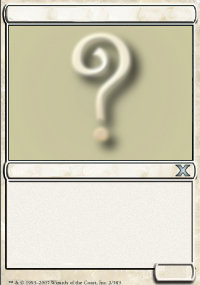
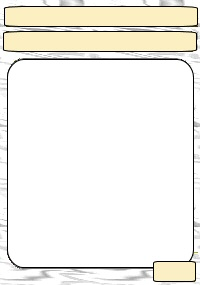
-AlternatRender calls fixes -Replaced "borderline" default cards design with something more generic

diff --git a/projects/mtg/src/CardGui.cpp b/projects/mtg/src/CardGui.cpp
@@ -104,7 +104,7 @@ void CardView::Render()
 }
 
 
-void CardGui::alternateRender(MTGCard * card, JQuad ** manaIcons, const Pos& pos){
+void CardGui::alternateRender(MTGCard * card, const Pos& pos){
   // Draw the "unknown" card model
   JRenderer * renderer = JRenderer::GetInstance();
   JQuad * q;
@@ -128,11 +128,12 @@ void CardGui::alternateRender(MTGCard * card, JQuad ** manaIcons, const Pos& pos
   font->SetScale(0.8 * pos.actZ);
 
   {
-    const char* name = _(card->getName()).c_str();
+    char name[4096];
+    sprintf(name, _(card->getName()).c_str());
     float w = font->GetStringWidth(name) * 0.8 * pos.actZ;
     if (w > BigWidth - 30)
       font->SetScale((BigWidth - 30) / w);
-    font->DrawString(name, pos.actX + 22 - BigWidth / 2, pos.actY + 22 - BigHeight / 2);
+    font->DrawString(name, pos.actX + (22 - BigWidth / 2)*pos.actZ, pos.actY + (25 - BigHeight / 2)*pos.actZ);
   }
 
   // Write the description
@@ -141,7 +142,7 @@ void CardGui::alternateRender(MTGCard * card, JQuad ** manaIcons, const Pos& pos
     const std::vector<string> txt = card->formattedText();
     unsigned i = 0;
     for (std::vector<string>::const_iterator it = txt.begin(); it != txt.end(); ++it, ++i)
-      font->DrawString(it->c_str(), pos.actX + 22 - BigWidth / 2, pos.actY + 35 + 11 * i);
+      font->DrawString(it->c_str(), pos.actX + (22 - BigWidth / 2)*pos.actZ, pos.actY + (-BigHeight/2 + 80 + 11 * i)*pos.actZ);
   }
 
   // Write the strength
@@ -150,7 +151,7 @@ void CardGui::alternateRender(MTGCard * card, JQuad ** manaIcons, const Pos& pos
       char buffer[32];
       sprintf(buffer, "%i/%i", card->power, card->toughness);
       float w = font->GetStringWidth(buffer) * 0.8;
-      font->DrawString(buffer, pos.actX + 65 - w / 2, pos.actY + 106);
+      font->DrawString(buffer, pos.actX + (65 - w / 2)*pos.actZ, pos.actY + (106)*pos.actZ);
   }
 
   // Mana
@@ -160,18 +161,20 @@ void CardGui::alternateRender(MTGCard * card, JQuad ** manaIcons, const Pos& pos
     unsigned int j = 0;
     unsigned char t = (JGE::GetInstance()->GetTime() / 3) & 0xFF;
     unsigned char v = t + 127;
+    float yOffset = -112;
     while ((h = manacost->getHybridCost(j)))
       {
 	float scale = pos.actZ * 0.05 * cosf(2*M_PI*((float)t)/256.0);
+  
 	if (scale < 0)
 	  {
-	    renderer->RenderQuad(manaIcons[h->color1], pos.actX - 12 * j + 75 + 3 * sinf(2*M_PI*((float)t)/256.0), pos.actY - 115 + 3 * cosf(2*M_PI*((float)(t-35))/256.0), 0, 0.4 + scale, 0.4 + scale);
-	    renderer->RenderQuad(manaIcons[h->color2], pos.actX - 12 * j + 75 + 3 * sinf(2*M_PI*((float)v)/256.0), pos.actY - 115 + 3 * cosf(2*M_PI*((float)(v-35))/256.0), 0, 0.4 - scale, 0.4 - scale);
+	    renderer->RenderQuad(manaIcons[h->color1], pos.actX + (-12 * j + 75 + 3 * sinf(2*M_PI*((float)t)/256.0))*pos.actZ, pos.actY + (yOffset + 3 * cosf(2*M_PI*((float)(t-35))/256.0))*pos.actZ, 0, 0.4 + scale, 0.4 + scale);
+	    renderer->RenderQuad(manaIcons[h->color2], pos.actX + (-12 * j + 75 + 3 * sinf(2*M_PI*((float)v)/256.0))*pos.actZ, pos.actY + (yOffset + 3 * cosf(2*M_PI*((float)(v-35))/256.0))*pos.actZ, 0, 0.4 - scale, 0.4 - scale);
 	  }
 	else
 	  {
-	    renderer->RenderQuad(manaIcons[h->color2], pos.actX - 12 * j + 75 + 3 * sinf(2*M_PI*((float)v)/256.0), pos.actY - 115 + 3 * cosf(2*M_PI*((float)(v-35))/256.0), 0, 0.4 - scale, 0.4 - scale);
-	    renderer->RenderQuad(manaIcons[h->color1], pos.actX - 12 * j + 75 + 3 * sinf(2*M_PI*((float)t)/256.0), pos.actY - 115 + 3 * cosf(2*M_PI*((float)(t-35))/256.0), 0, 0.4 + scale, 0.4 + scale);
+	    renderer->RenderQuad(manaIcons[h->color2], pos.actX + (- 12 * j + 75 + 3 * sinf(2*M_PI*((float)v)/256.0))*pos.actZ, pos.actY + (yOffset + 3 * cosf(2*M_PI*((float)(v-35))/256.0))*pos.actZ, 0, 0.4 - scale, 0.4 - scale);
+	    renderer->RenderQuad(manaIcons[h->color1], pos.actX + (- 12 * j + 75 + 3 * sinf(2*M_PI*((float)t)/256.0))*pos.actZ, pos.actY + (yOffset + 3 * cosf(2*M_PI*((float)(t-35))/256.0))*pos.actZ, 0, 0.4 + scale, 0.4 + scale);
 	  }
 	++j;
       }
@@ -179,7 +182,7 @@ void CardGui::alternateRender(MTGCard * card, JQuad ** manaIcons, const Pos& pos
       {
 	for (int cost = manacost->getCost(i); cost > 0; --cost)
 	  {
-	    renderer->RenderQuad(manaIcons[i], pos.actX - 12*j + 75, pos.actY - 115, 0, 0.4 * pos.actZ, 0.4 * pos.actZ);
+	    renderer->RenderQuad(manaIcons[i], pos.actX + (-12*j + 75)*pos.actZ, pos.actY + (yOffset)*pos.actZ, 0, 0.4 * pos.actZ, 0.4 * pos.actZ);
 	    ++j;
 	  }
       }
@@ -188,12 +191,13 @@ void CardGui::alternateRender(MTGCard * card, JQuad ** manaIcons, const Pos& pos
       {
 	char buffer[10];
 	sprintf(buffer, "%d", cost);
-	renderer->RenderQuad(manaIcons[0], pos.actX - 12*j + 75, pos.actY - 115, 0, 0.4 * pos.actZ, 0.4 * pos.actZ);
+	renderer->RenderQuad(manaIcons[0], pos.actX + (- 12*j + 75)*pos.actZ, pos.actY +(yOffset)*pos.actZ, 0, 0.4 * pos.actZ, 0.4 * pos.actZ);
 	float w = font->GetStringWidth(buffer);
-	font->DrawString(buffer, pos.actX - 12*j + 76 - w/2, pos.actY - 120);
+	font->DrawString(buffer, pos.actX +(- 12*j + 76 - w/2)*pos.actZ, pos.actY + (yOffset - 5)*pos.actZ);
       }
   }
 
+  //types
   {
     string s = "";
     for (int i = card->nb_types - 1; i > 0; --i)
@@ -202,7 +206,7 @@ void CardGui::alternateRender(MTGCard * card, JQuad ** manaIcons, const Pos& pos
 	s += " - ";
       }
     s += _(Subtypes::subtypesList->find(card->types[0]));
-    font->DrawString(s.c_str(), pos.actX + 22 - BigWidth / 2, pos.actY + 17);
+    font->DrawString(s.c_str(), pos.actX + (22 - BigWidth / 2)*pos.actZ, pos.actY + (49 - BigHeight / 2)*pos.actZ);
   }
 
   font->SetScale(backup_scale);
@@ -229,7 +233,7 @@ void CardGui::RenderBig(const Pos& pos){
 
   // If we come here, we do not have the picture.
   MTGCard * mtgcard = card->model;
-  alternateRender(card,manaIcons,pos);
+  alternateRender(card,pos);
 }
 
 

diff --git a/projects/mtg/src/ShopItem.cpp b/projects/mtg/src/ShopItem.cpp
@@ -161,7 +161,8 @@ void ShopItem::Render(){
       quad->SetColor(ARGB(255,255,255,255));
       renderer->RenderQuad(quad,SCREEN_WIDTH - 105,SCREEN_HEIGHT/2 - 5,0, 0.9f,0.9f);
     }else{
-      //if (card) CardGui::alternateRender(card,NULL,SCREEN_WIDTH/2 + 100 + 20,133,0, 0.9f);
+      if (card) CardGui::alternateRender(card,Pos(SCREEN_WIDTH/2 + 100 + 20,133,0.9f* 285/250, 0,255));
+
     }
     mFont->DrawString(mText.c_str(),  SCREEN_WIDTH/2 - 50,  SCREEN_HEIGHT - 16,JGETEXT_CENTER);
   }

diff --git a/projects/mtg/include/GameStateDeckViewer.h b/projects/mtg/include/GameStateDeckViewer.h
@@ -639,7 +639,8 @@ class GameStateDeckViewer: public GameState, public JGuiListener
         mFont->SetScale(scaleBackup);
       }
     }else{
-      //      CardGui::alternateRender(card, mIcons, x_center, y + 142.5*scale, 0, scale);
+      Pos pos = Pos(x, y, scale* 285/250, 0.0, 255);
+      CardGui::alternateRender(card, pos);
       quad = cache.getThumb(card);
       if (quad){
          float _scale = 285 * scale / quad->mHeight;

diff --git a/projects/mtg/include/CardGui.h b/projects/mtg/include/CardGui.h
@@ -28,7 +28,7 @@ struct CardGui : public PlayGuiObject {
   virtual void Render() = 0;
   void RenderBig(const Pos&);
   virtual void Update(float dt) = 0;
-  static void alternateRender(MTGCard * card, JQuad ** manaIcons, const Pos& pos);
+  static void alternateRender(MTGCard * card, const Pos& pos);
   virtual ostream& toString(ostream&) const;
 };
 
